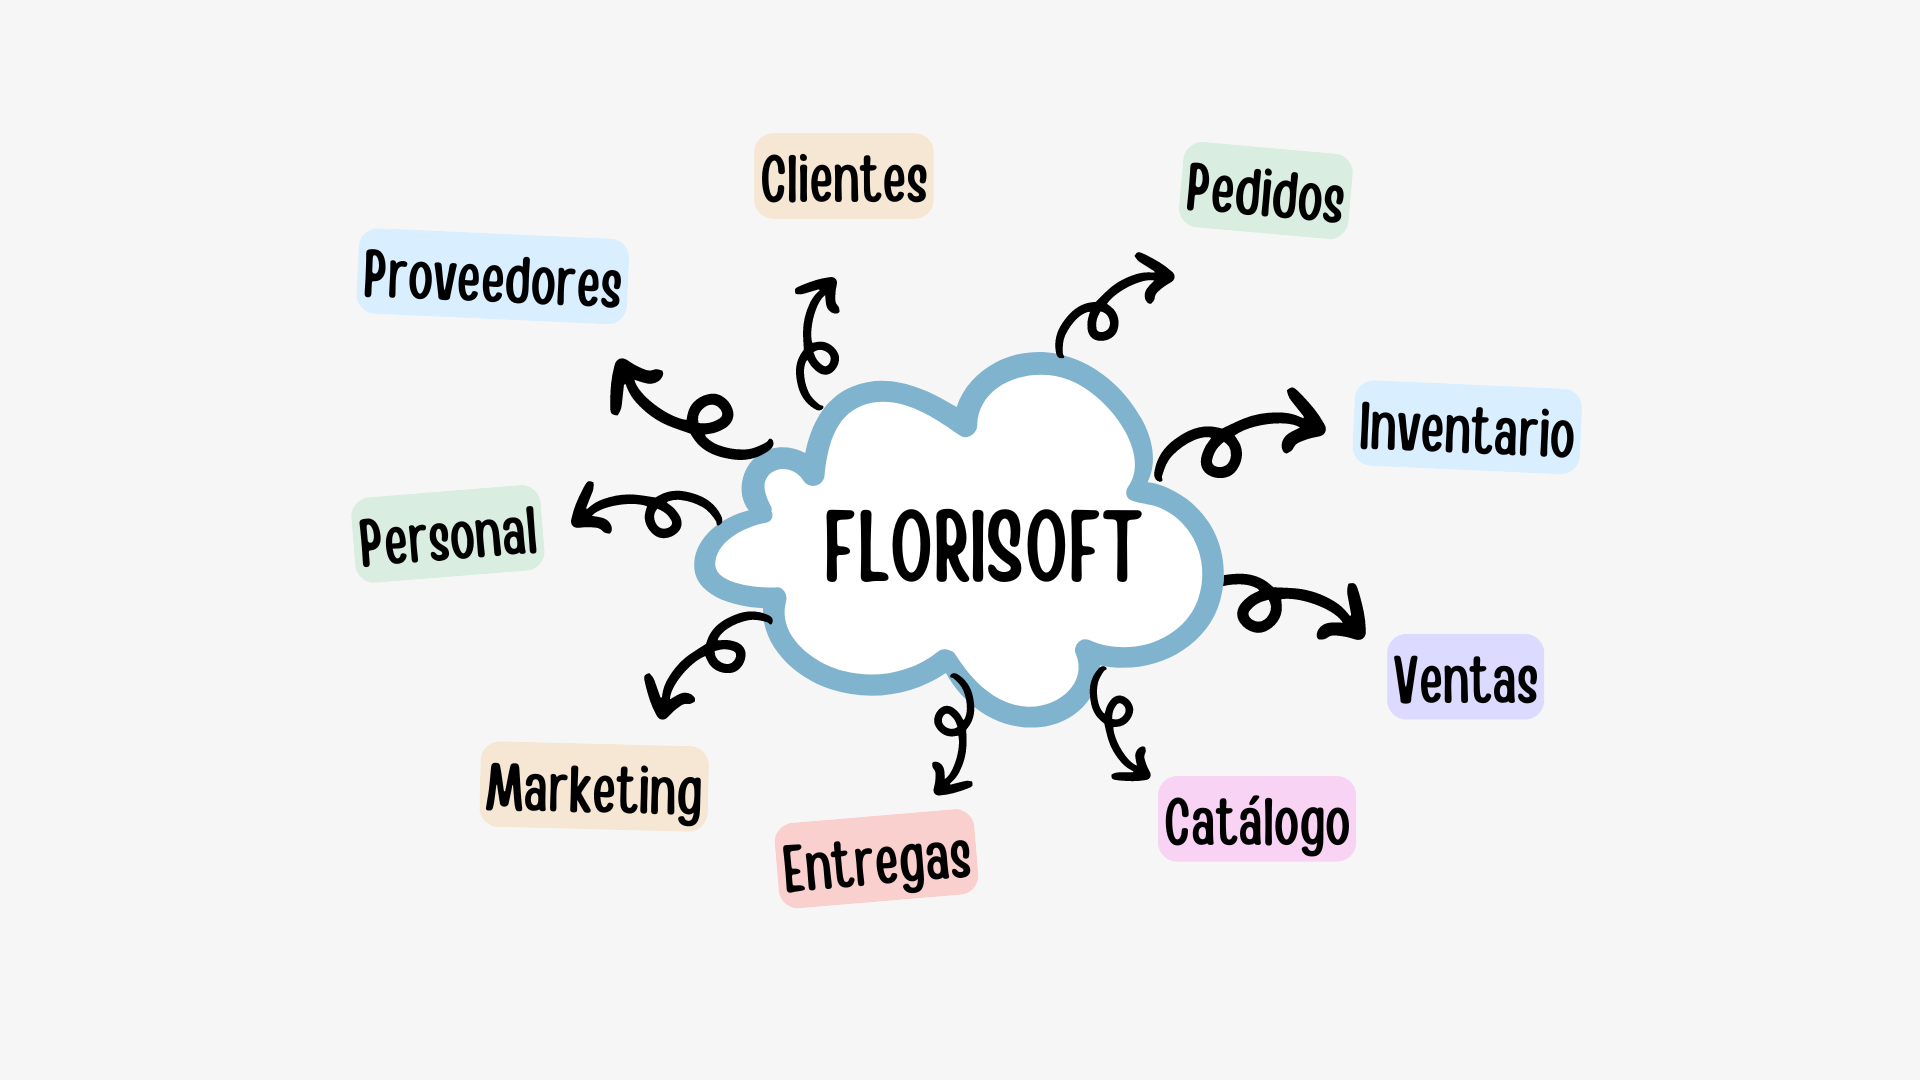
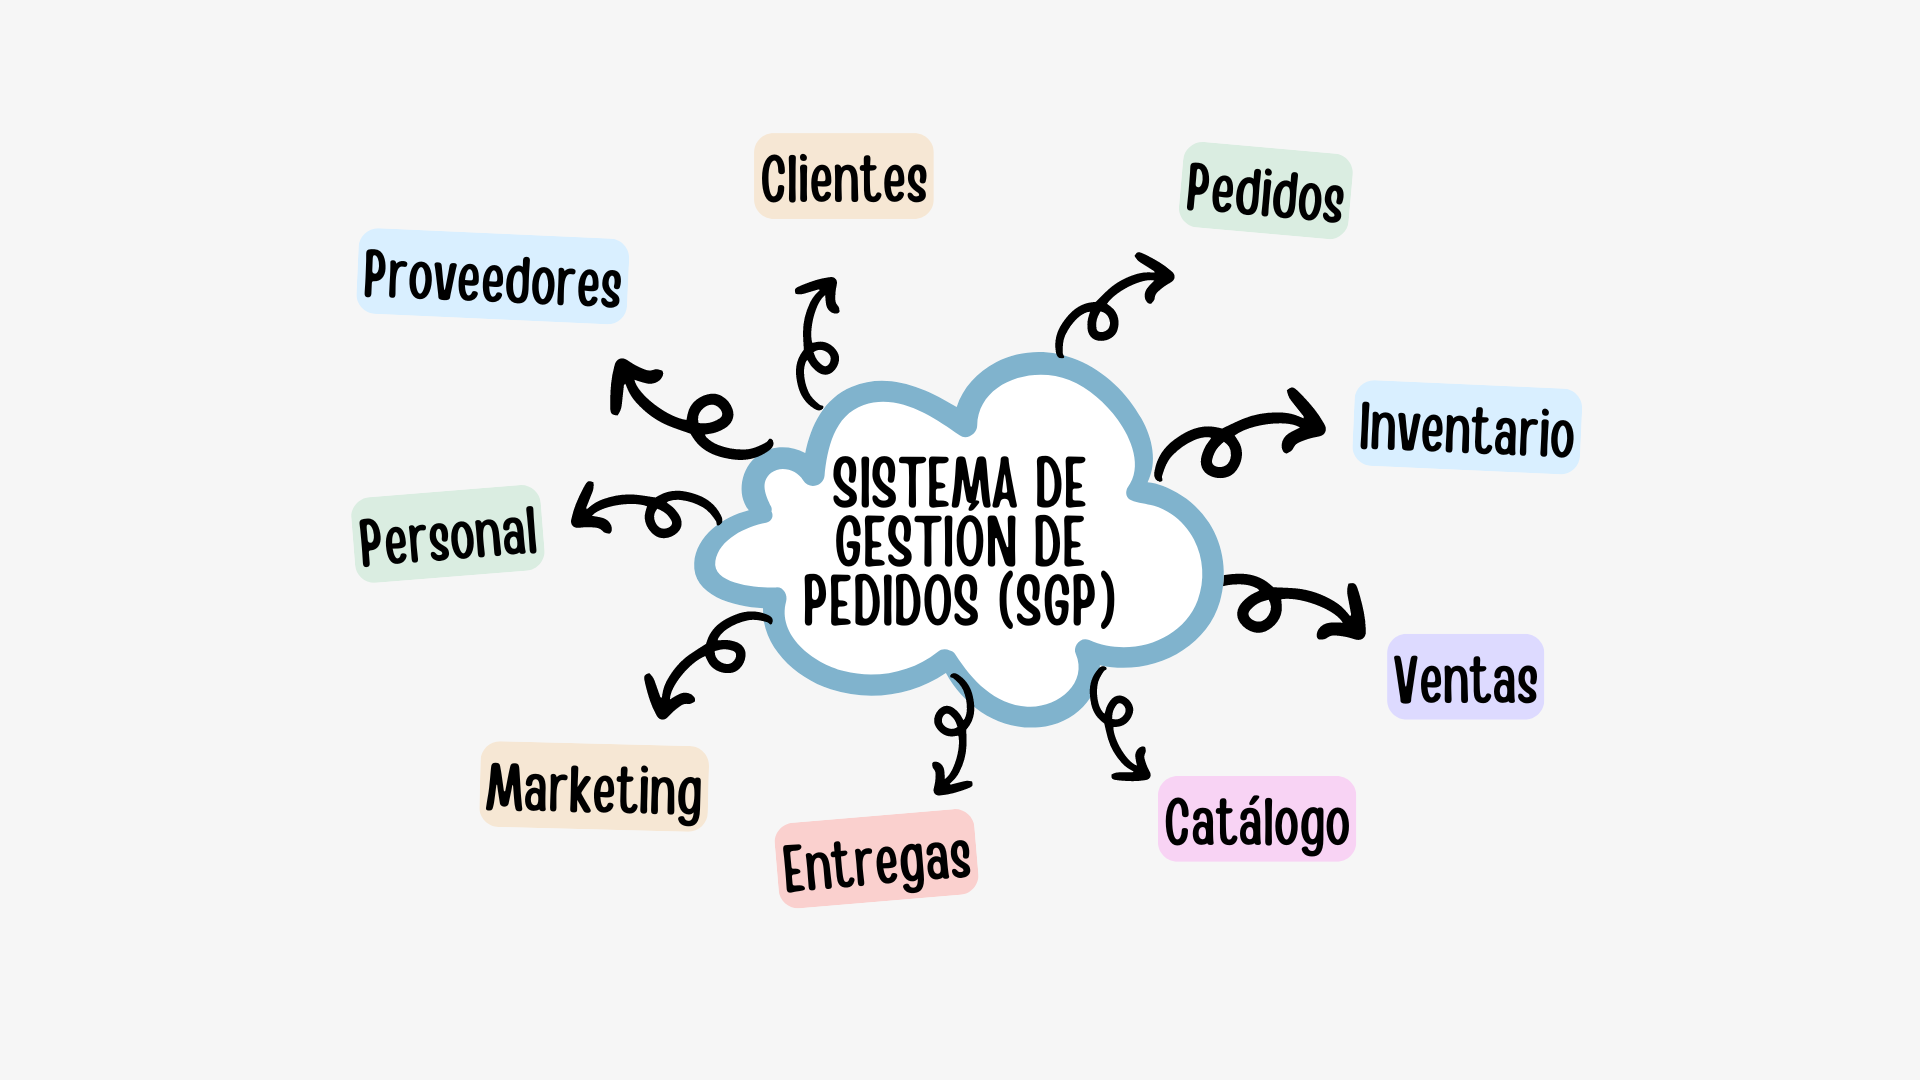
Se realizaron algunos cambios y se modifico una imagen

Changed region(s): [[0.4062, 0.3972, 0.5938, 0.5806]]

diff --git a/index.html b/index.html
@@ -7,8 +7,8 @@
 </head>
 <body>
 
-    <h1>FloriSoft</h1>
-    <p>FloriSoft es un sistema propuesto para optimizar la gestión en el sector de las florerias, diseñado para administrar de manera eficiente las áreas del negocio: Clientes, Pedidos, Inventario, Ventas, Catálogo, Entregas, Marketing, Personal y Proveedores. </p>
+    <h1>Sistema de Gestión de Pedidos (SGP)</h1>
+    <p>El Sistema de Gestión de Pedidos (SGP) es un sistema propuesto para optimizar la gestión en el sector de las florerias, diseñado para administrar de manera eficiente las áreas del negocio: Clientes, Pedidos, Inventario, Ventas, Catálogo, Entregas, Marketing, Personal y Proveedores. </p>
 
     <h1>Problemática del proyecto</h1>
     <p>La problemática a resolver en la florería es la falta de organización en el proceso de gestión de pedidos, lo que dificulta el seguimiento adecuado de cotizaciones, pagos, entregas y datos de clientes, resultando en respuestas lentas a las solicitudes. Además, la ausencia de un control efectivo del inventario limita la capacidad de analizar la rentabilidad de los productos ofrecidos y dificulta la adaptación a las necesidades del mercado.  </p>
